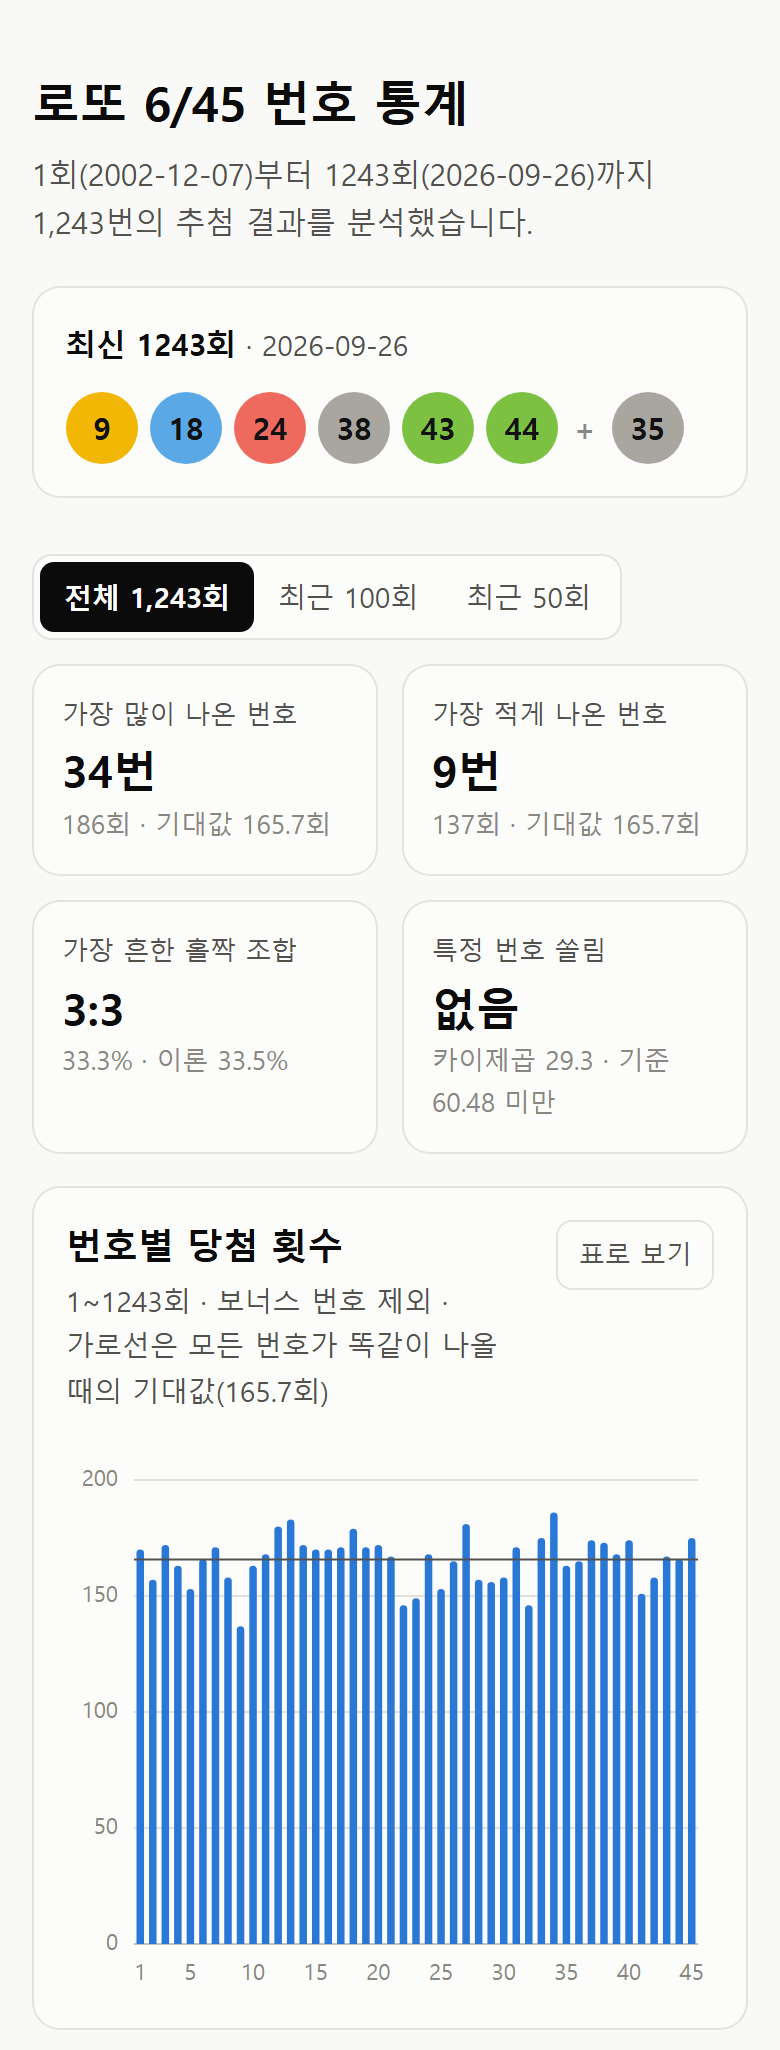
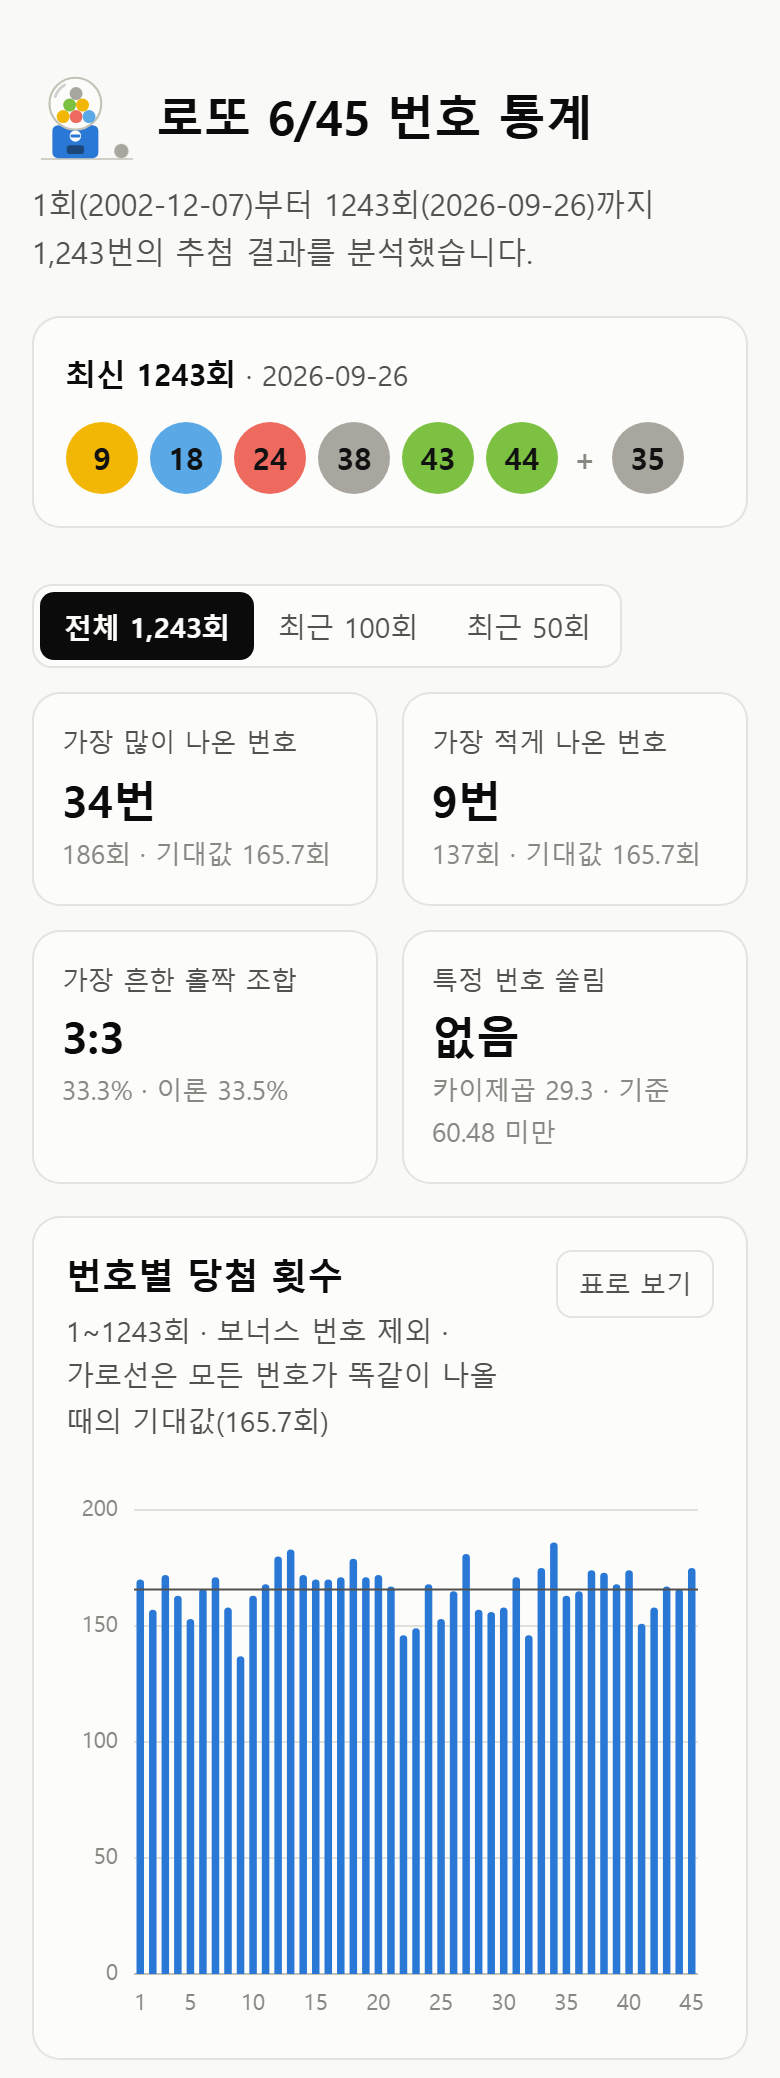
제목 옆에 가챠 추첨기 애니메이션 추가
- SVG로 그린 구슬 추첨기: 손잡이가 돌고, 구슬이 섞인 뒤, 구멍에서 구슬 하나가 굴러 나옴
- 페이지를 열 때 한 번 재생되고, 누를 때마다 다시 재생 (나오는 구슬 색은 무작위)
- 움직임 줄이기 설정에서는 애니메이션 없이 표시
- 로또 공 색을 CSS 변수로 정리, README 스크린샷과 기능 목록 갱신

diff --git a/docs/index.html b/docs/index.html
@@ -24,6 +24,12 @@
     --dim: #dcdbd5;
     --link: #1c5cab;
     --shadow: 0 4px 16px rgba(11, 11, 11, 0.08);
+    /* 로또 공 색 (번호대별, 라이트·다크 공통) */
+    --ball-1: #f2b705;
+    --ball-2: #5aa9e6;
+    --ball-3: #ee6a5f;
+    --ball-4: #a8a69e;
+    --ball-5: #7cc142;
   }
   @media (prefers-color-scheme: dark) {
     :root {
@@ -83,11 +89,51 @@
     font-weight: 700; font-size: 15px; color: #111;
   }
   .ball.sm { width: 28px; height: 28px; font-size: 13px; }
-  .b1 { background: #f2b705; }
-  .b2 { background: #5aa9e6; }
-  .b3 { background: #ee6a5f; }
-  .b4 { background: #a8a69e; }
-  .b5 { background: #7cc142; }
+  .b1 { background: var(--ball-1); }
+  .b2 { background: var(--ball-2); }
+  .b3 { background: var(--ball-3); }
+  .b4 { background: var(--ball-4); }
+  .b5 { background: var(--ball-5); }
+
+  /* 제목 옆 추첨기 */
+  .title-row { display: flex; align-items: center; gap: 10px; margin-bottom: 8px; }
+  .title-row h1 { margin: 0; }
+  .machine {
+    flex: none; width: 64px; height: 57px; padding: 0;
+    border: 0; border-radius: 10px; background: transparent; cursor: pointer;
+  }
+  .machine svg { display: block; width: 100%; height: 100%; overflow: visible; }
+  .machine:focus-visible { outline: 2px solid var(--series-1); outline-offset: 2px; }
+  .machine:active svg { transform: scale(0.96); }
+  .m-drum { fill: var(--surface); stroke: var(--baseline); stroke-width: 1.5; }
+  .m-shine { fill: none; stroke: var(--ink-2); stroke-opacity: 0.25; stroke-width: 2; stroke-linecap: round; }
+  .m-base { fill: var(--series-1); }
+  .m-dial { fill: var(--surface); }
+  .m-knob { stroke: var(--series-1); stroke-width: 2; stroke-linecap: round; transform-box: view-box; transform-origin: 30px 44.5px; }
+  .m-slot { fill: var(--ink); fill-opacity: 0.45; }
+  .m-ground { stroke: var(--baseline); stroke-width: 1; }
+  .m-balls { transform-box: view-box; transform-origin: 30px 22px; }
+  .mb1 { fill: var(--ball-1); }
+  .mb2 { fill: var(--ball-2); }
+  .mb3 { fill: var(--ball-3); }
+  .mb4 { fill: var(--ball-4); }
+  .mb5 { fill: var(--ball-5); }
+  /* 손잡이를 돌리면 → 구슬이 섞이고 → 구멍에서 구슬 하나가 굴러 나와 한 번 튄다 */
+  .machine.play .m-knob { animation: m-spin-knob 0.6s ease-in-out; }
+  .machine.play .m-balls { animation: m-spin 1.1s cubic-bezier(0.45, 0, 0.3, 1) 0.2s; }
+  .machine.play .m-out { animation: m-out 1.9s ease-out both; }
+  @keyframes m-spin-knob { to { transform: rotate(360deg); } }
+  @keyframes m-spin { to { transform: rotate(720deg); } }
+  @keyframes m-out {
+    0%, 60% { opacity: 0; transform: translate(-32px, -1px); }
+    63% { opacity: 1; transform: translate(-32px, -1px); }
+    82% { transform: translate(0, 0); }
+    88% { transform: translate(0, -4px); }
+    95%, 100% { opacity: 1; transform: translate(0, 0); }
+  }
+  @media (prefers-reduced-motion: reduce) {
+    .machine.play .m-knob, .machine.play .m-balls, .machine.play .m-out { animation: none; }
+  }
   .plus { color: var(--muted); font-weight: 600; margin: 0 2px; }
 
   /* 기간 필터 */
@@ -186,6 +232,8 @@
   }
   @media (max-width: 520px) {
     h1 { font-size: 24px; }
+    .machine { width: 52px; height: 46px; }
+    .title-row { gap: 10px; }
     .card { padding: 16px; }
     .tile { padding: 14px; }
     .tile-value { font-size: 22px; }
@@ -195,7 +243,29 @@
 <body>
 <main class="wrap">
   <header>
-    <h1>로또 6/45 번호 통계</h1>
+    <div class="title-row">
+      <button type="button" class="machine" id="machine" aria-label="추첨기 애니메이션 다시 보기">
+        <svg viewBox="0 0 72 64" aria-hidden="true">
+          <line class="m-ground" x1="6" y1="60.5" x2="70" y2="60.5"/>
+          <rect class="m-base" x="14" y="37" width="32" height="23" rx="4"/>
+          <circle class="m-dial" cx="30" cy="44.5" r="4"/>
+          <path class="m-knob" d="M27.5 44.5H32.5"/>
+          <rect class="m-slot" x="24" y="51" width="12" height="6" rx="2"/>
+          <circle class="m-drum" cx="30" cy="22" r="18"/>
+          <g class="m-balls">
+            <circle class="mb1" cx="21.5" cy="31" r="4.5"/>
+            <circle class="mb3" cx="30.5" cy="31" r="4.5"/>
+            <circle class="mb2" cx="39.5" cy="31" r="4.5"/>
+            <circle class="mb5" cx="26" cy="23" r="4.5"/>
+            <circle class="mb1" cx="35" cy="23" r="4.5"/>
+            <circle class="mb4" cx="30.5" cy="15" r="4.5"/>
+          </g>
+          <path class="m-shine" d="M16 17A15 15 0 0 1 22.5 9"/>
+          <circle class="m-out mb3" cx="62" cy="55" r="5"/>
+        </svg>
+      </button>
+      <h1>로또 6/45 번호 통계</h1>
+    </div>
     <p class="lede" id="lede"></p>
     <div class="card latest">
       <div class="latest-label" id="latest-label"></div>
@@ -689,6 +759,18 @@
       renderScoped();
     });
   }
+
+  // 제목 옆 추첨기: 처음 열 때 한 번 돌고, 누를 때마다 다시 돈다 (나오는 구슬 색은 무작위)
+  const machine = $('machine');
+  const outBall = machine.querySelector('.m-out');
+  function playMachine() {
+    outBall.setAttribute('class', `m-out mb${1 + Math.floor(Math.random() * 5)}`);
+    machine.classList.remove('play');
+    void machine.offsetWidth;  // 애니메이션을 처음부터 다시 시작하게 한다
+    machine.classList.add('play');
+  }
+  machine.addEventListener('click', playMachine);
+  playMachine();
 
   renderStatic();
   renderScoped();

diff --git a/site_template.html b/site_template.html
@@ -24,6 +24,12 @@
     --dim: #dcdbd5;
     --link: #1c5cab;
     --shadow: 0 4px 16px rgba(11, 11, 11, 0.08);
+    /* 로또 공 색 (번호대별, 라이트·다크 공통) */
+    --ball-1: #f2b705;
+    --ball-2: #5aa9e6;
+    --ball-3: #ee6a5f;
+    --ball-4: #a8a69e;
+    --ball-5: #7cc142;
   }
   @media (prefers-color-scheme: dark) {
     :root {
@@ -83,11 +89,51 @@
     font-weight: 700; font-size: 15px; color: #111;
   }
   .ball.sm { width: 28px; height: 28px; font-size: 13px; }
-  .b1 { background: #f2b705; }
-  .b2 { background: #5aa9e6; }
-  .b3 { background: #ee6a5f; }
-  .b4 { background: #a8a69e; }
-  .b5 { background: #7cc142; }
+  .b1 { background: var(--ball-1); }
+  .b2 { background: var(--ball-2); }
+  .b3 { background: var(--ball-3); }
+  .b4 { background: var(--ball-4); }
+  .b5 { background: var(--ball-5); }
+
+  /* 제목 옆 추첨기 */
+  .title-row { display: flex; align-items: center; gap: 10px; margin-bottom: 8px; }
+  .title-row h1 { margin: 0; }
+  .machine {
+    flex: none; width: 64px; height: 57px; padding: 0;
+    border: 0; border-radius: 10px; background: transparent; cursor: pointer;
+  }
+  .machine svg { display: block; width: 100%; height: 100%; overflow: visible; }
+  .machine:focus-visible { outline: 2px solid var(--series-1); outline-offset: 2px; }
+  .machine:active svg { transform: scale(0.96); }
+  .m-drum { fill: var(--surface); stroke: var(--baseline); stroke-width: 1.5; }
+  .m-shine { fill: none; stroke: var(--ink-2); stroke-opacity: 0.25; stroke-width: 2; stroke-linecap: round; }
+  .m-base { fill: var(--series-1); }
+  .m-dial { fill: var(--surface); }
+  .m-knob { stroke: var(--series-1); stroke-width: 2; stroke-linecap: round; transform-box: view-box; transform-origin: 30px 44.5px; }
+  .m-slot { fill: var(--ink); fill-opacity: 0.45; }
+  .m-ground { stroke: var(--baseline); stroke-width: 1; }
+  .m-balls { transform-box: view-box; transform-origin: 30px 22px; }
+  .mb1 { fill: var(--ball-1); }
+  .mb2 { fill: var(--ball-2); }
+  .mb3 { fill: var(--ball-3); }
+  .mb4 { fill: var(--ball-4); }
+  .mb5 { fill: var(--ball-5); }
+  /* 손잡이를 돌리면 → 구슬이 섞이고 → 구멍에서 구슬 하나가 굴러 나와 한 번 튄다 */
+  .machine.play .m-knob { animation: m-spin-knob 0.6s ease-in-out; }
+  .machine.play .m-balls { animation: m-spin 1.1s cubic-bezier(0.45, 0, 0.3, 1) 0.2s; }
+  .machine.play .m-out { animation: m-out 1.9s ease-out both; }
+  @keyframes m-spin-knob { to { transform: rotate(360deg); } }
+  @keyframes m-spin { to { transform: rotate(720deg); } }
+  @keyframes m-out {
+    0%, 60% { opacity: 0; transform: translate(-32px, -1px); }
+    63% { opacity: 1; transform: translate(-32px, -1px); }
+    82% { transform: translate(0, 0); }
+    88% { transform: translate(0, -4px); }
+    95%, 100% { opacity: 1; transform: translate(0, 0); }
+  }
+  @media (prefers-reduced-motion: reduce) {
+    .machine.play .m-knob, .machine.play .m-balls, .machine.play .m-out { animation: none; }
+  }
   .plus { color: var(--muted); font-weight: 600; margin: 0 2px; }
 
   /* 기간 필터 */
@@ -186,6 +232,8 @@
   }
   @media (max-width: 520px) {
     h1 { font-size: 24px; }
+    .machine { width: 52px; height: 46px; }
+    .title-row { gap: 10px; }
     .card { padding: 16px; }
     .tile { padding: 14px; }
     .tile-value { font-size: 22px; }
@@ -195,7 +243,29 @@
 <body>
 <main class="wrap">
   <header>
-    <h1>로또 6/45 번호 통계</h1>
+    <div class="title-row">
+      <button type="button" class="machine" id="machine" aria-label="추첨기 애니메이션 다시 보기">
+        <svg viewBox="0 0 72 64" aria-hidden="true">
+          <line class="m-ground" x1="6" y1="60.5" x2="70" y2="60.5"/>
+          <rect class="m-base" x="14" y="37" width="32" height="23" rx="4"/>
+          <circle class="m-dial" cx="30" cy="44.5" r="4"/>
+          <path class="m-knob" d="M27.5 44.5H32.5"/>
+          <rect class="m-slot" x="24" y="51" width="12" height="6" rx="2"/>
+          <circle class="m-drum" cx="30" cy="22" r="18"/>
+          <g class="m-balls">
+            <circle class="mb1" cx="21.5" cy="31" r="4.5"/>
+            <circle class="mb3" cx="30.5" cy="31" r="4.5"/>
+            <circle class="mb2" cx="39.5" cy="31" r="4.5"/>
+            <circle class="mb5" cx="26" cy="23" r="4.5"/>
+            <circle class="mb1" cx="35" cy="23" r="4.5"/>
+            <circle class="mb4" cx="30.5" cy="15" r="4.5"/>
+          </g>
+          <path class="m-shine" d="M16 17A15 15 0 0 1 22.5 9"/>
+          <circle class="m-out mb3" cx="62" cy="55" r="5"/>
+        </svg>
+      </button>
+      <h1>로또 6/45 번호 통계</h1>
+    </div>
     <p class="lede" id="lede"></p>
     <div class="card latest">
       <div class="latest-label" id="latest-label"></div>
@@ -689,6 +759,18 @@
       renderScoped();
     });
   }
+
+  // 제목 옆 추첨기: 처음 열 때 한 번 돌고, 누를 때마다 다시 돈다 (나오는 구슬 색은 무작위)
+  const machine = $('machine');
+  const outBall = machine.querySelector('.m-out');
+  function playMachine() {
+    outBall.setAttribute('class', `m-out mb${1 + Math.floor(Math.random() * 5)}`);
+    machine.classList.remove('play');
+    void machine.offsetWidth;  // 애니메이션을 처음부터 다시 시작하게 한다
+    machine.classList.add('play');
+  }
+  machine.addEventListener('click', playMachine);
+  playMachine();
 
   renderStatic();
   renderScoped();

diff --git a/README.md b/README.md
@@ -19,6 +19,7 @@
 - **홀짝 조합**: 회차별 홀수·짝수 조합의 실제 비율을 이론 확률(초기하분포)과 비교합니다.
 - **내 번호 조회**: 번호를 입력하면 번호별 당첨 횟수, 순위, 마지막 출현 회차를 보여주고 차트에서 강조합니다.
 - **오래 안 나온 번호**: 최신 회차 기준으로 가장 오래 나오지 않은 번호 5개를 보여줍니다.
+- **가챠 추첨기**: 제목 옆 추첨기를 누르면 손잡이가 돌고 구슬이 섞인 뒤 하나가 굴러 나옵니다.
 - 다크 모드와 모바일 화면을 지원합니다.
 
 <img src="screenshots/my-numbers.png" alt="내 번호 조회: 입력한 번호 6개가 차트에서 강조되고, 번호별 당첨 횟수와 순위가 표로 나온 화면">
